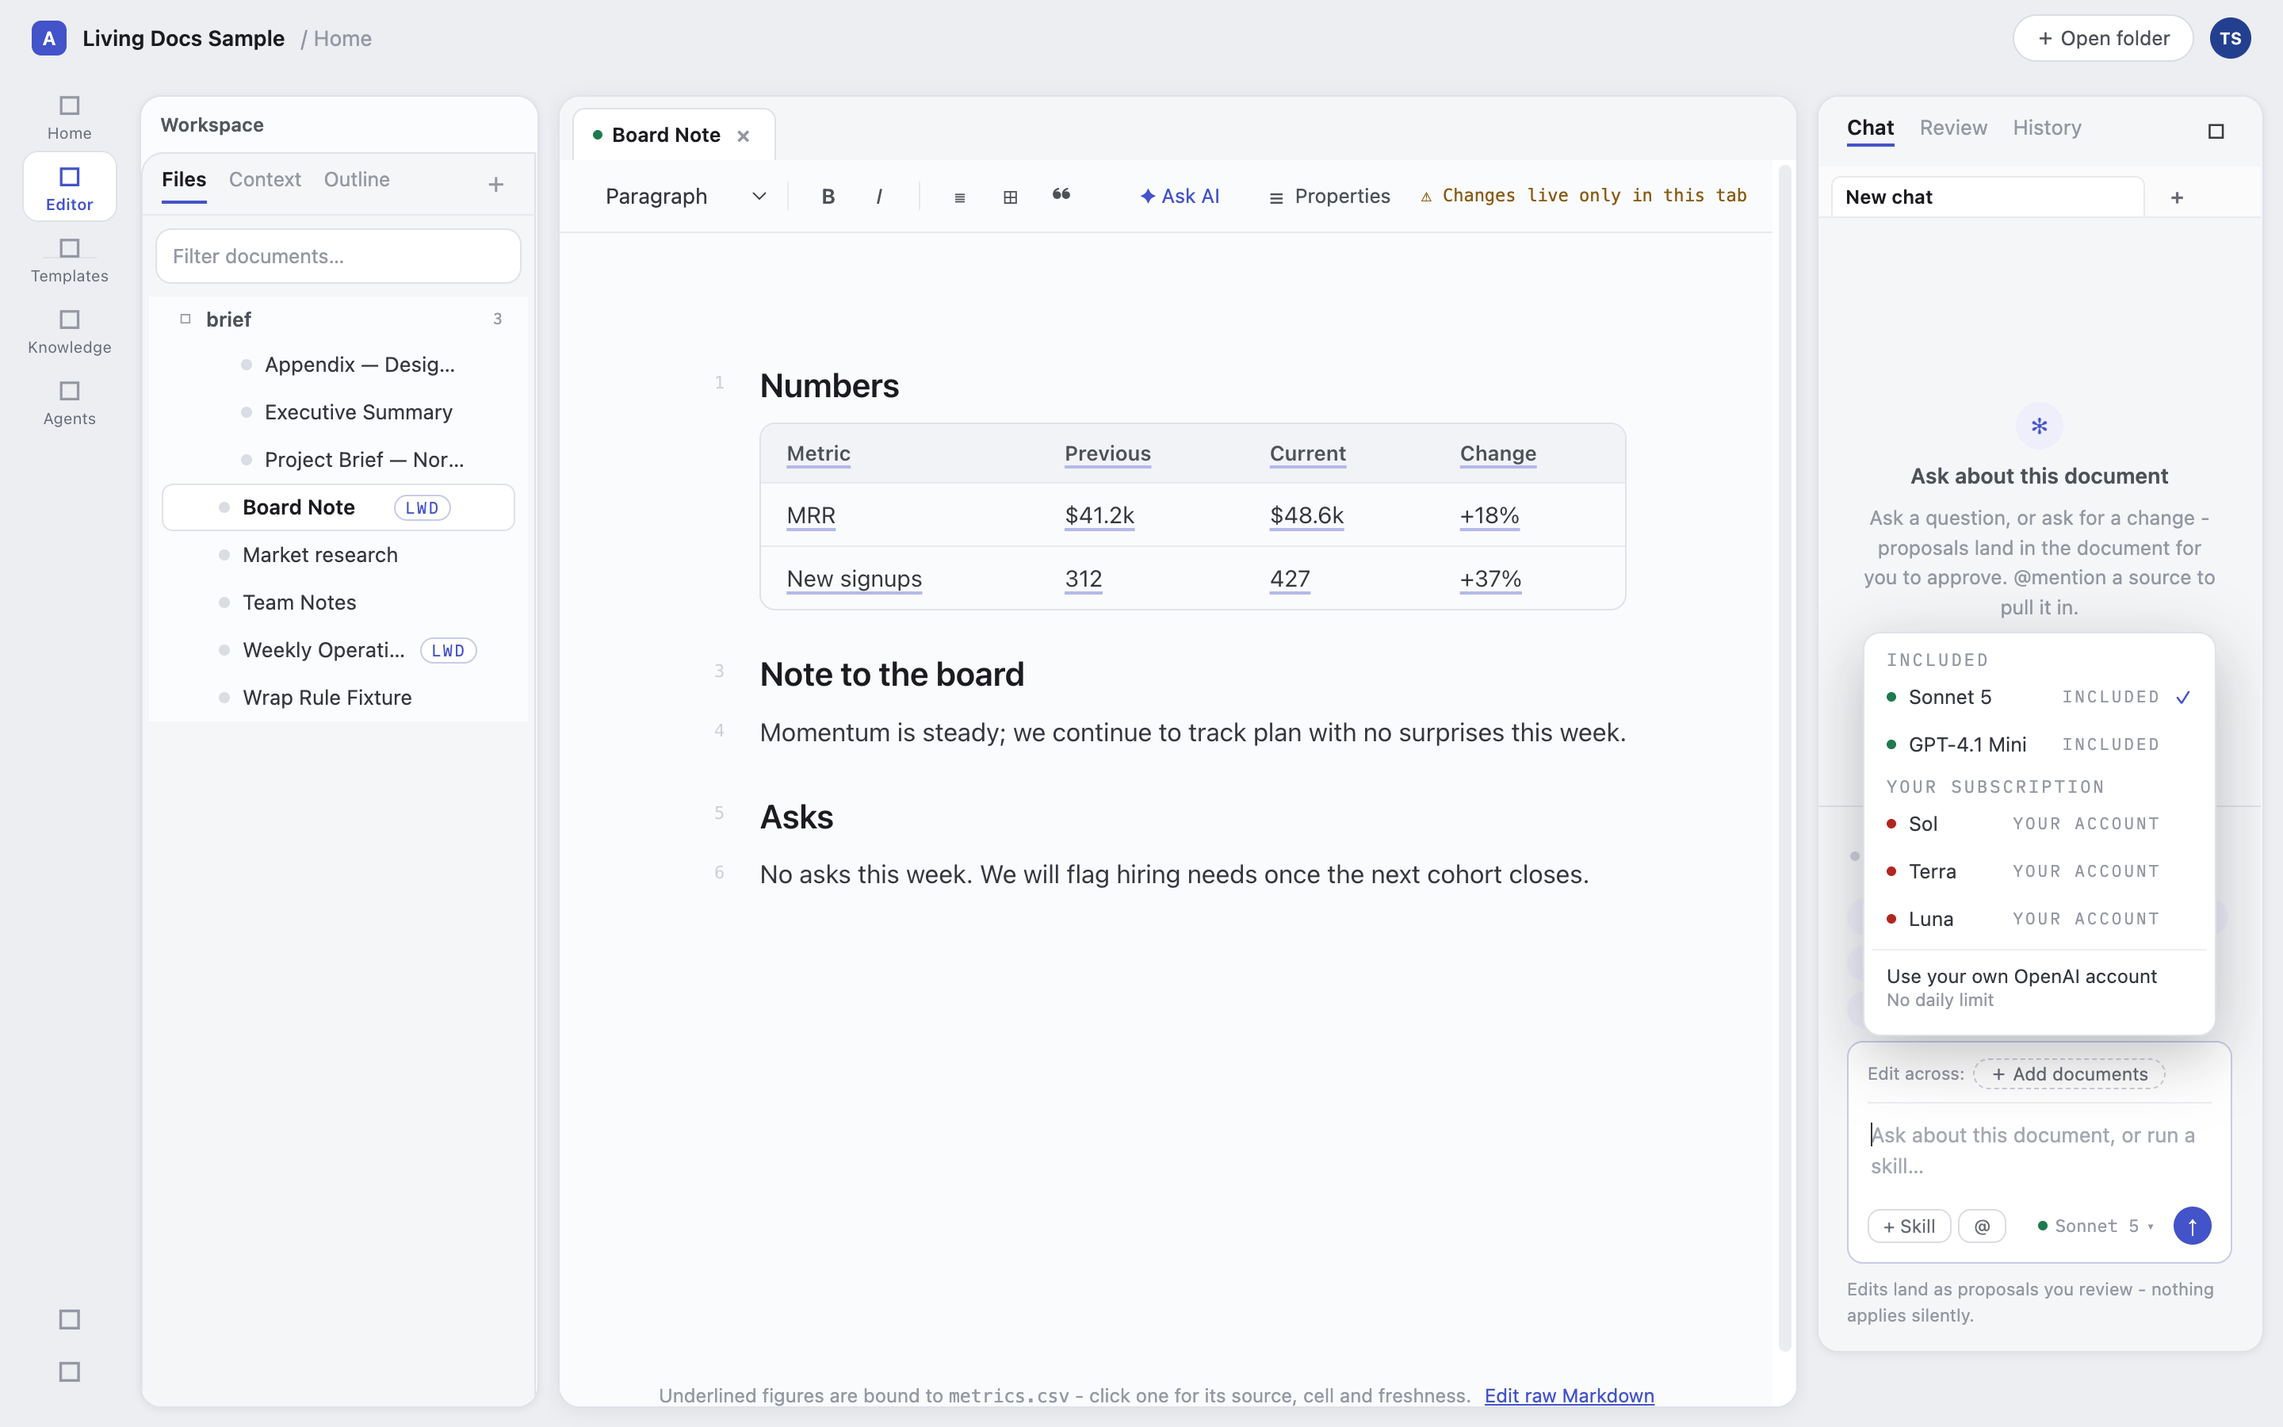
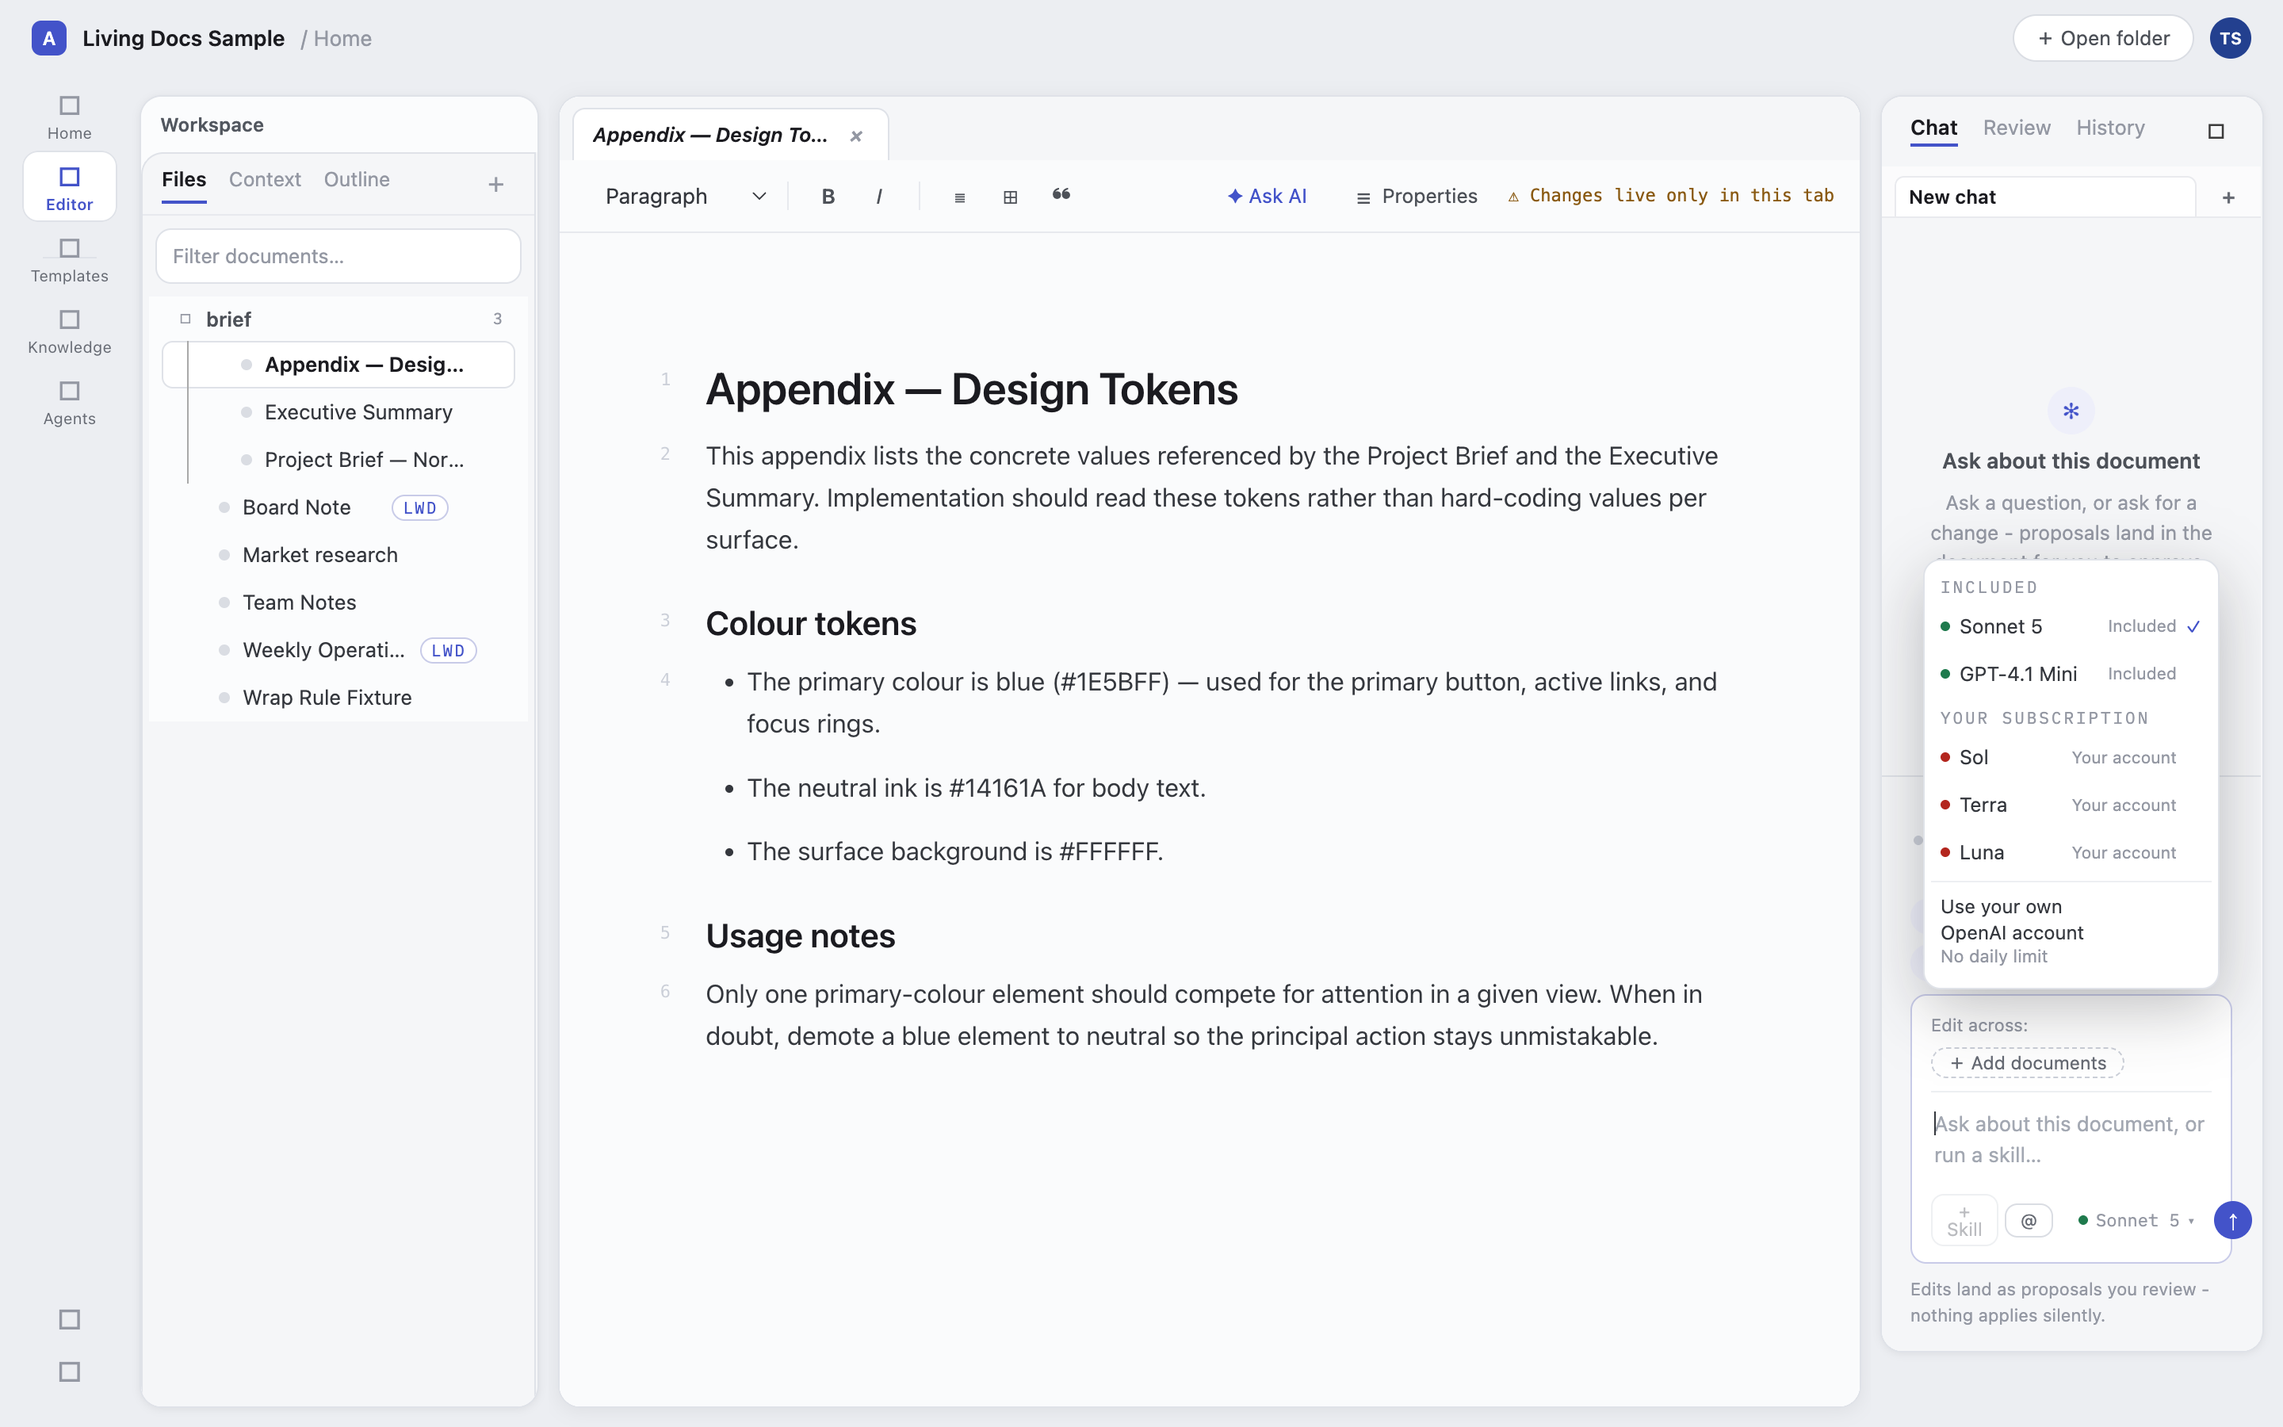
fix(55/B3): the model name outranks the provider when the rail runs out of room
Cycle-2 blocker. The first shape of the picker row gave the name `flex:1;overflow:hidden`
beside a `flex:none` provider column. `overflow:hidden` sets a flex item's automatic minimum
size to zero, so the name paid the whole shortfall and the provider paid none: at a 239px
clip box every name ellipsised, and at 169px the name column was 0px and the rows read only
"INCLUDED" / "YOUR ACCOUNT".

The name is now FIRST inside a `flex-wrap:wrap` box sized from its own content, so it takes
line one outright and the provider - carrying the tick with it - drops underneath whenever
both will not fit. Neither is ever ellipsised now; a word that runs out of room costs a line,
never a letter. The row word also drops the tracked uppercase it borrowed from the group
heading above it, which is both quieter and about a third narrower.

Measured live on the one-click affordance path, fresh profile, real broker on :8090 with
stub upstreams, signed out:

  clip 239px (1440x900): popover 187px, 26/26 clearance, all five names on one line, all
  five providers on one line, nothing truncated.
  clip 169px (1280x800): popover 117px, 26/26 clearance, all five names on one line, the
  provider on a second line per row, nothing truncated.

Also here:
- The card is bounded to the room above the composer inside the rail's own scroll box and
  scrolls if it must, so the taller two-line rows can never run off the TOP of a short rail
  (the clipping bug rotated ninety degrees).
[…]

diff --git a/src/vs/workbench/contrib/livingDocs/browser/reviewRailView.ts b/src/vs/workbench/contrib/livingDocs/browser/reviewRailView.ts
@@ -3,7 +3,7 @@
  *  Licensed under the MIT License. See License.txt in the project root for license information.
  *--------------------------------------------------------------------------------------------*/
 
-import { $, addDisposableListener, append, clearNode, getWindow } from '../../../../base/browser/dom.js';
+import { $, addDisposableListener, append, clearNode, findParentWithClass, getWindow } from '../../../../base/browser/dom.js';
 import { safeSetInnerHtml } from '../../../../base/browser/domSanitize.js';
 import { IAction, Separator, SubmenuAction, toAction } from '../../../../base/common/actions.js';
 import { disposableTimeout } from '../../../../base/common/async.js';
@@ -2142,14 +2142,26 @@ export class ReviewRailView extends ViewPane {
 		this._modelPopover.value = store;
 
 		const pop = append(box, $('div'));
-		// Anchored above the control, right-aligned to the composer box; card styling matches the mention picker.
-		// Anchored to BOTH sides of the composer box (`left` + `right`), exactly like the @mention picker below.
-		// The old `right:9px` + a min-width was a width the container never agreed to: the rail's scroll box
-		// clips its children, so once the per-row provider column pushed the popover past the composer's width
-		// at the DEFAULT rail size, the left edge was simply cut off - every availability dot and the first
-		// characters of every model name with it. A popover cannot be wider than the thing it is anchored
+		// Anchored above the control and to BOTH sides of the composer box (`left` + `right`), exactly like the
+		// @mention picker below. The old `right:9px` + a min-width was a width the container never agreed to: the
+		// rail's scroll box clips its children, so once the per-row provider column pushed the popover past the
+		// composer's width at the DEFAULT rail size, the left edge was simply cut off - every availability dot and
+		// the first characters of every model name with it. A popover cannot be wider than the thing it is anchored
 		// inside, so it no longer claims a width at all; it takes the composer's, at every rail size.
-		pop.style.cssText = `position:absolute;left:9px;right:9px;bottom:calc(100% + 4px);z-index:20;padding:5px;background:${PAPER.card};border:1px solid ${HAIRLINE.strong};border-radius:11px;box-shadow:${SHADOW.dialog}`;
+		// The insets and the card padding are deliberately tight (7px / 4px): a first-run rail can be as narrow as
+		// ~169px (see #353), and every pixel spent on chrome here is a pixel taken off the model NAME, which is the
+		// one thing a row cannot do without.
+		pop.style.cssText = `position:absolute;left:7px;right:7px;bottom:calc(100% + 4px);z-index:20;padding:4px;background:${PAPER.card};border:1px solid ${HAIRLINE.strong};border-radius:11px;box-shadow:${SHADOW.dialog}`;
+		// ...and to the room actually available ABOVE the composer inside the rail's own scroll box (`.ldp-content`,
+		// created by this same view at the top of the panel). A narrow rail turns every row into two lines, and a
+		// card taller than the rail would simply run off the TOP - the models nearest the heading would vanish,
+		// which is the horizontal clipping bug rotated ninety degrees. Capped and scrollable, it can only shrink.
+		const scroller = findParentWithClass(box, 'ldp-content');
+		if (scroller) {
+			const room = Math.floor(box.getBoundingClientRect().top - scroller.getBoundingClientRect().top - 12);
+			pop.style.maxHeight = `${Math.max(150, room)}px`;
+			pop.style.overflowY = 'auto';
+		}
 		// Guard: swallow the mousedown that would otherwise bubble to the outside-dismiss listener below and
 		// close the popover before a row's click lands.
 		store.add(addDisposableListener(pop, 'mousedown', e => e.stopPropagation()));
@@ -2174,12 +2186,15 @@ export class ReviewRailView extends ViewPane {
 				const rows = models.filter(m => m.tier === group.tier);
 				if (!rows.length) { continue; }
 				const heading = append(pop, $('div'));
-				heading.style.cssText = `padding:6px 9px 3px;font:400 11px/1 ${FONT.mono};letter-spacing:${TRACKING.sectionLabel};text-transform:uppercase;color:${INK.meta}`;
+				heading.style.cssText = `padding:6px 6px 3px;font:400 10.5px/1.3 ${FONT.mono};letter-spacing:${TRACKING.sectionLabel};text-transform:uppercase;color:${INK.meta};overflow-wrap:anywhere`;
 				heading.textContent = group.heading;
 				for (const model of rows) {
 					const row = append(pop, $('button')) as HTMLButtonElement;
 					const isCurrent = model.id === this._selectedModelId;
-					row.style.cssText = `display:flex;align-items:center;gap:8px;width:100%;box-sizing:border-box;height:30px;padding:0 9px;border:none;border-radius:7px;background:transparent;color:${INK.body};font:400 12.5px/1 ${FONT.sans};cursor:pointer;text-align:left`;
+					const providerWords = modelDoorWords(model.door);
+					// `min-height` rather than a fixed height, because a row is allowed to become two lines when the
+					// rail is too narrow to hold the name and its provider side by side (see the wrap note below).
+					row.style.cssText = `display:flex;align-items:center;gap:6px;width:100%;box-sizing:border-box;min-height:30px;padding:3px 6px;border:none;border-radius:7px;background:transparent;color:${INK.body};font:400 12.5px/1.3 ${FONT.sans};cursor:pointer;text-align:left`;
 					// Per-row health dot (P14.3). Since plan 55 WP-B3 the broker routes by MODEL id, so a row's door
 					// can be down while the door serving right now is fine - the dot therefore reads that row's own
 					// `available` flag first and only falls back to the broker-wide readiness. A green dot on a row
@@ -2187,20 +2202,53 @@ export class ReviewRailView extends ViewPane {
 					// this surface exists not to tell.
 					const rdot = append(row, $('span'));
 					rdot.style.cssText = `width:6px;height:6px;flex:none;border-radius:999px;background:${model.available ? modelHealthDotColour(readiness) : RED.base}`;
-					const name = append(row, $('span'));
-					name.style.cssText = 'flex:1;overflow:hidden;text-overflow:ellipsis;white-space:nowrap';
+					// The name and the provider share ONE wrapping flex line, and the order decides who yields when
+					// the rail runs out of room. The first shape of this row put the name on `flex:1;overflow:hidden`
+					// beside a `flex:none` provider column, which inverted the priority: `overflow:hidden` gives a
+					// flex item an automatic minimum size of zero, so the name paid the whole shortfall while the
+					// provider paid none - at a 239px rail every name ellipsised, and at 169px the name column was
+					// literally 0px wide and the rows read "INCLUDED" / "YOUR ACCOUNT" with no model on them.
+					//
+					// Now the name is FIRST in a `flex-wrap:wrap` box and sized from its own content, so it takes
+					// line one outright; the provider (carrying the tick with it) drops to a second line underneath
+					// whenever both will not fit. Nothing is ever truncated: at a wide rail the row is one line and
+					// looks exactly as it did, and at a narrow one it becomes two honest lines instead of one
+					// unreadable one. Ruling 9.1 still holds - the provider is on every row, just no longer at the
+					// name's expense.
+					const main = append(row, $('span'));
+					main.style.cssText = 'display:flex;flex-wrap:wrap;align-items:center;column-gap:6px;row-gap:1px;flex:1 1 auto;min-width:0';
+					const name = append(main, $('span'));
+					// No `nowrap`/ellipsis: if even one line will not hold the name, it wraps at its own spaces
+					// (`anywhere` only as the last resort for a single unbreakable token) rather than losing letters.
+					name.style.cssText = 'flex:1 1 auto;min-width:0;overflow-wrap:anywhere';
 					name.textContent = model.label;
 					// The provider, on EVERY row (founder ruling 9.1, doc 30 section 9): whose credits this model
 					// spends is the choice the ruling asks the picker to make explicit, and it is no longer implied
 					// by anything else on screen - the broker routes by model id, so the row's door IS where the
-					// call goes. Quiet meta text, so the model's own name still leads the row.
-					const provider = append(row, $('span'));
-					provider.style.cssText = `flex:none;font:400 10.5px/1 ${FONT.mono};letter-spacing:${TRACKING.sectionLabel};text-transform:uppercase;color:${INK.meta}`;
-					provider.textContent = modelDoorWords(model.door);
-					// The current model carries a check (P14.3); the tick space is reserved so rows align.
-					const check = append(row, $('span'));
-					check.style.cssText = `flex:none;font-size:12px;color:${INDIGO.base};width:12px;text-align:center;visibility:${isCurrent ? 'visible' : 'hidden'}`;
+					// call goes. Sentence-case sans rather than the tracked uppercase it used to borrow from the
+					// group heading directly above it: quieter (the heading already shouts the grouping once), and
+					// roughly a third narrower, which is most of what buys the name its line back.
+					const meta = append(main, $('span'));
+					meta.style.cssText = 'display:flex;align-items:center;gap:5px;flex:0 1 auto;min-width:0;margin-left:auto';
+					const provider = append(meta, $('span'));
+					// Wraps rather than ellipsises, for the same reason the name does: on this card a word that runs
+					// out of room costs a line, never a letter.
+					provider.style.cssText = `flex:0 1 auto;min-width:0;overflow-wrap:anywhere;font:400 10.5px/1.4 ${FONT.sans};color:${INK.meta}`;
+					provider.textContent = providerWords;
+					// The current model carries a check (P14.3). It rides with the provider so that it stays at the
+					// row's right edge on whichever line the provider ends up on, and its space is still reserved on
+					// every row so the ticks line up.
+					const check = append(meta, $('span'));
+					check.style.cssText = `flex:none;font-size:11px;color:${INDIGO.base};width:11px;text-align:center;visibility:${isCurrent ? 'visible' : 'hidden'}`;
 					check.textContent = '✓';
+					// The door is named again in the accessible name and in a hover, so the choice ruling 9.1 asks
+					// the picker to make explicit is carried by more than the printed word - and a screen reader
+					// hears the provider without having to infer it from the row's second line.
+					const doorHint = model.door === 'openai-oauth'
+						? localize('livingDocs.model.row.hintOwnAccount', "{0} runs on your own OpenAI account.", model.label)
+						: localize('livingDocs.model.row.hintIncluded', "{0} is included with Abstract.", model.label);
+					row.setAttribute('aria-label', localize('livingDocs.model.row.aria', "{0}, {1}", model.label, providerWords));
+					store.add(this.hoverService.setupManagedHover(getDefaultHoverDelegate('mouse'), row, doorHint));
 					store.add(addDisposableListener(row, 'mouseenter', () => { row.style.background = INDIGO.tint; }));
 					store.add(addDisposableListener(row, 'mouseleave', () => { row.style.background = 'transparent'; }));
 					store.add(addDisposableListener(row, 'click', () => {
@@ -2220,15 +2268,18 @@ export class ReviewRailView extends ViewPane {
 		// actually know the answer is `false`; an unprobed `undefined` renders nothing rather than guessing.
 		if (this._signedIn === false) {
 			const connect = append(pop, $('button')) as HTMLButtonElement;
-			connect.style.cssText = `display:block;width:100%;box-sizing:border-box;margin-top:4px;padding:8px 9px 9px;border:none;border-top:1px solid ${HAIRLINE.soft};border-radius:0 0 7px 7px;background:transparent;cursor:pointer;text-align:left`;
+			connect.style.cssText = `display:block;width:100%;box-sizing:border-box;margin-top:3px;padding:7px 6px 8px;border:none;border-top:1px solid ${HAIRLINE.soft};border-radius:0 0 7px 7px;background:transparent;cursor:pointer;text-align:left`;
 			connect.title = localize('livingDocs.model.connectOwnAccountTitle', "Connect your OpenAI account on the Model Access screen");
 			// Two deliberate lines rather than one sentence left to wrap: the composer box is ~240px, so a single
 			// string breaks mid-phrase ("no / daily limit"). The invitation leads, the reason follows in meta type.
+			// The lead itself still has to wrap on a first-run rail (~169px holds about fifteen characters), so
+			// "OpenAI account" is joined by a NO-BREAK SPACE: the line can only ever break where the phrase does,
+			// giving "Use your own" / "OpenAI account" instead of the three-line "Use your own / OpenAI / account".
 			const connectLead = append(connect, $('div'));
 			connectLead.style.cssText = `font:400 12px/1.35 ${FONT.sans};color:${INK.body}`;
-			connectLead.textContent = localize('livingDocs.model.connectOwnAccount', "Use your own OpenAI account");
+			connectLead.textContent = localize('livingDocs.model.connectOwnAccount', "Use your own OpenAI\u00a0account");
 			const connectWhy = append(connect, $('div'));
-			connectWhy.style.cssText = `font:400 11px/1.35 ${FONT.sans};color:${INK.meta}`;
+			connectWhy.style.cssText = `font:400 11px/1.35 ${FONT.sans};color:${INK.meta};white-space:nowrap`;
 			connectWhy.textContent = localize('livingDocs.model.connectOwnAccountWhy', "No daily limit");
 			store.add(addDisposableListener(connect, 'mouseenter', () => { connect.style.background = INDIGO.tint; connectLead.style.color = INDIGO.base; }));
 			store.add(addDisposableListener(connect, 'mouseleave', () => { connect.style.background = 'transparent'; connectLead.style.color = INK.body; }));
